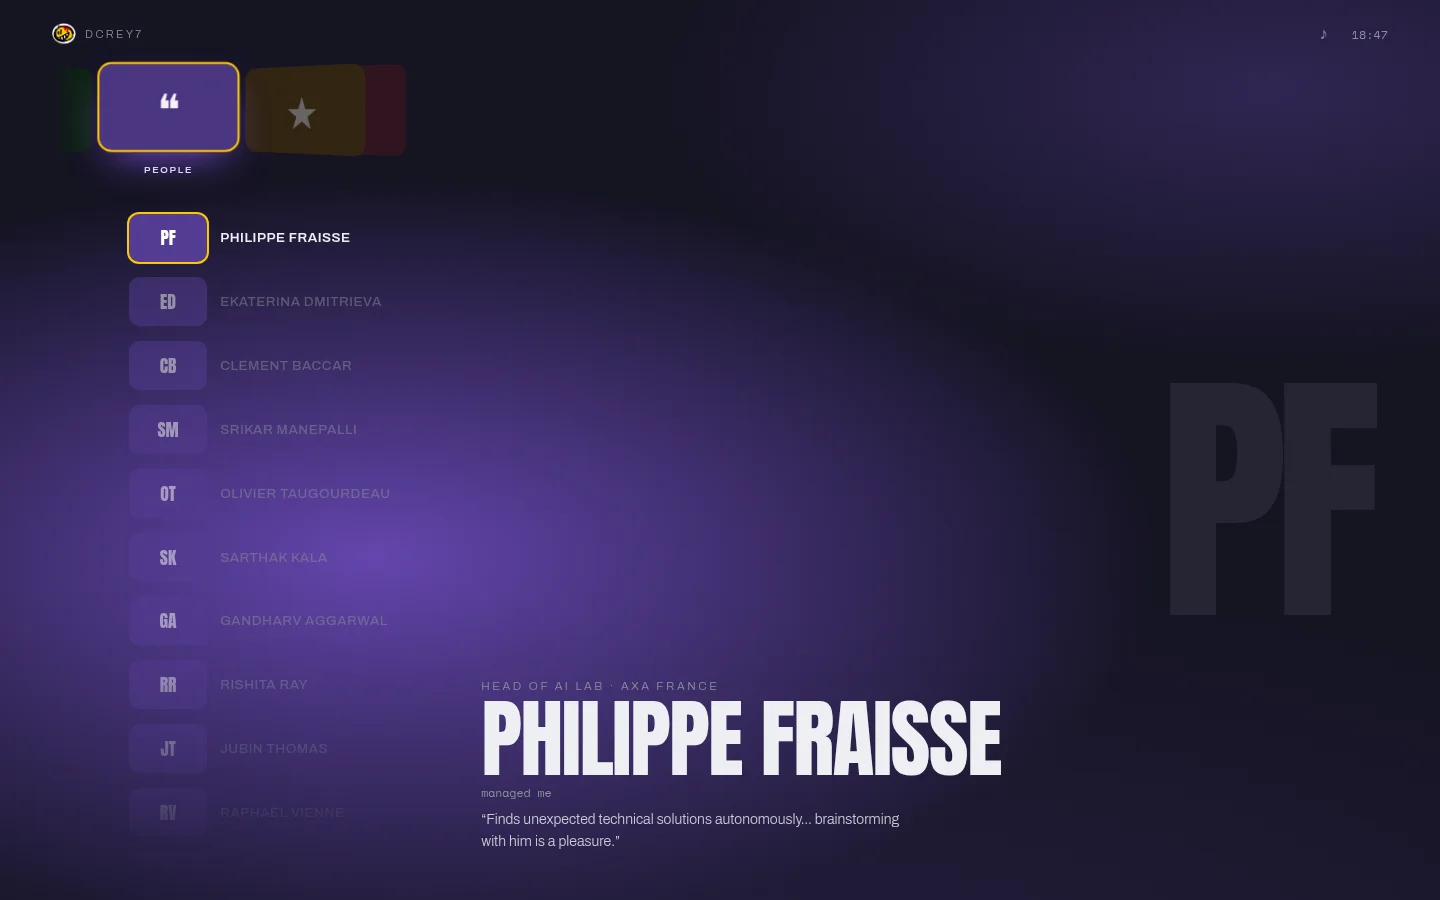
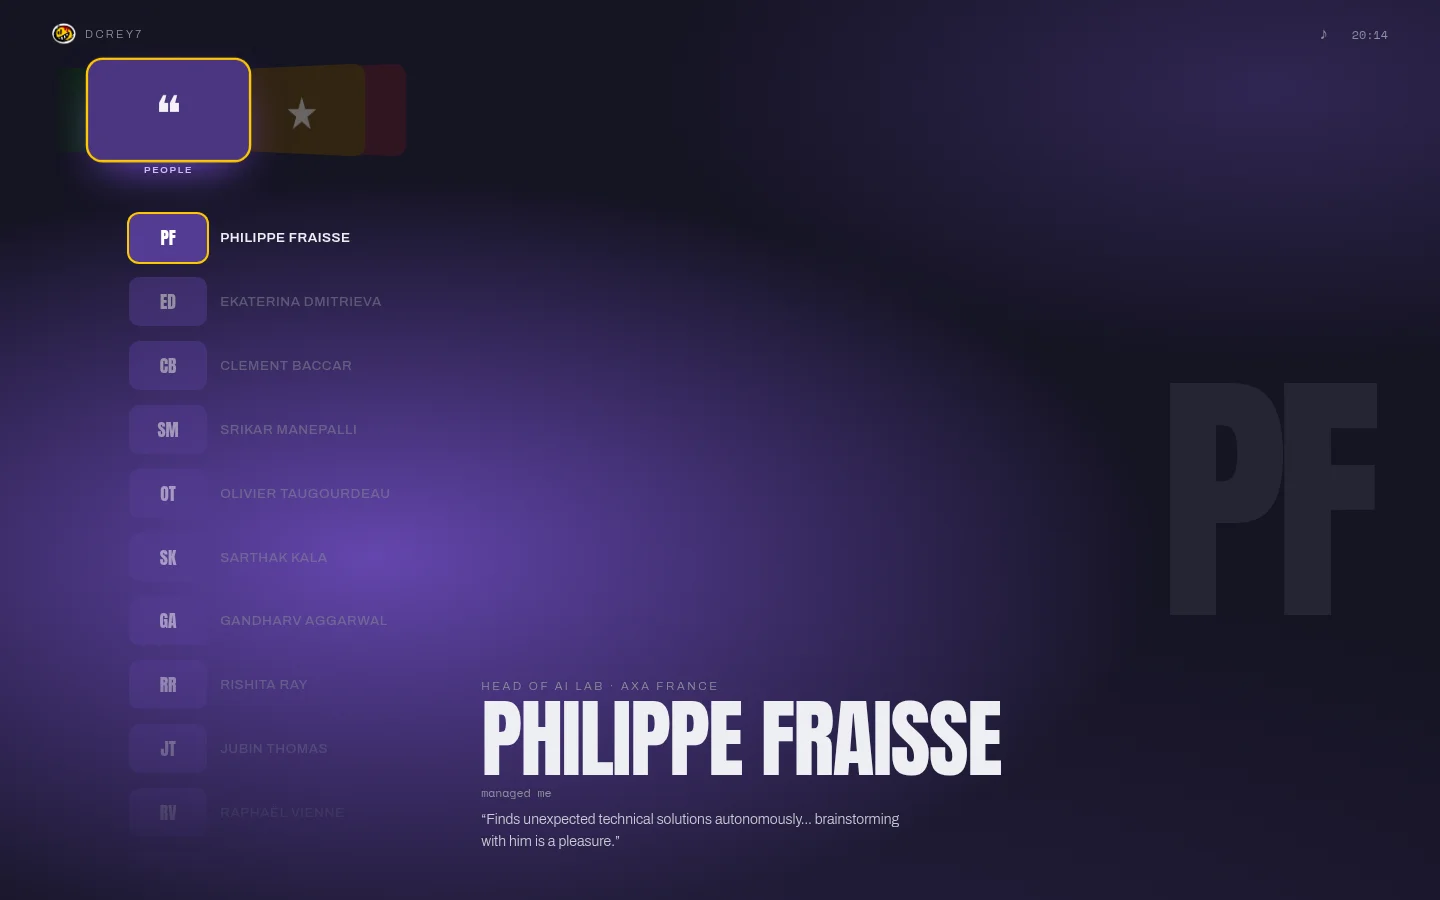
selected category card bigger via centre-symmetric scale(1.16) - grows around the deck's centre line so all cards stay middle-aligned; lift removed; 49/49

Changed region(s): [[0.0312, 0.0622, 0.1875, 0.2178]]

diff --git a/css/main.css b/css/main.css
@@ -262,8 +262,11 @@ body {
   transform-origin: left center;
   transform: perspective(700px) rotateY(-38deg) translateZ(-14px);
 }
+/* Bigger AND middle-aligned in one move: scale grows the card symmetrically
+   around its centre, so its centre line stays on the deck's centre line.
+   (A layout size change would shift the grid — transforms only, as ever.) */
 .cat.is-on .cat__icon {
-  transform: perspective(700px) translateY(-3px) translateZ(16px);
+  transform: perspective(700px) translateZ(18px) scale(1.16);
   box-shadow:
     0 0 0 2px var(--yellow),
     0 16px 40px -12px color-mix(in oklab, var(--key) 85%, transparent);
